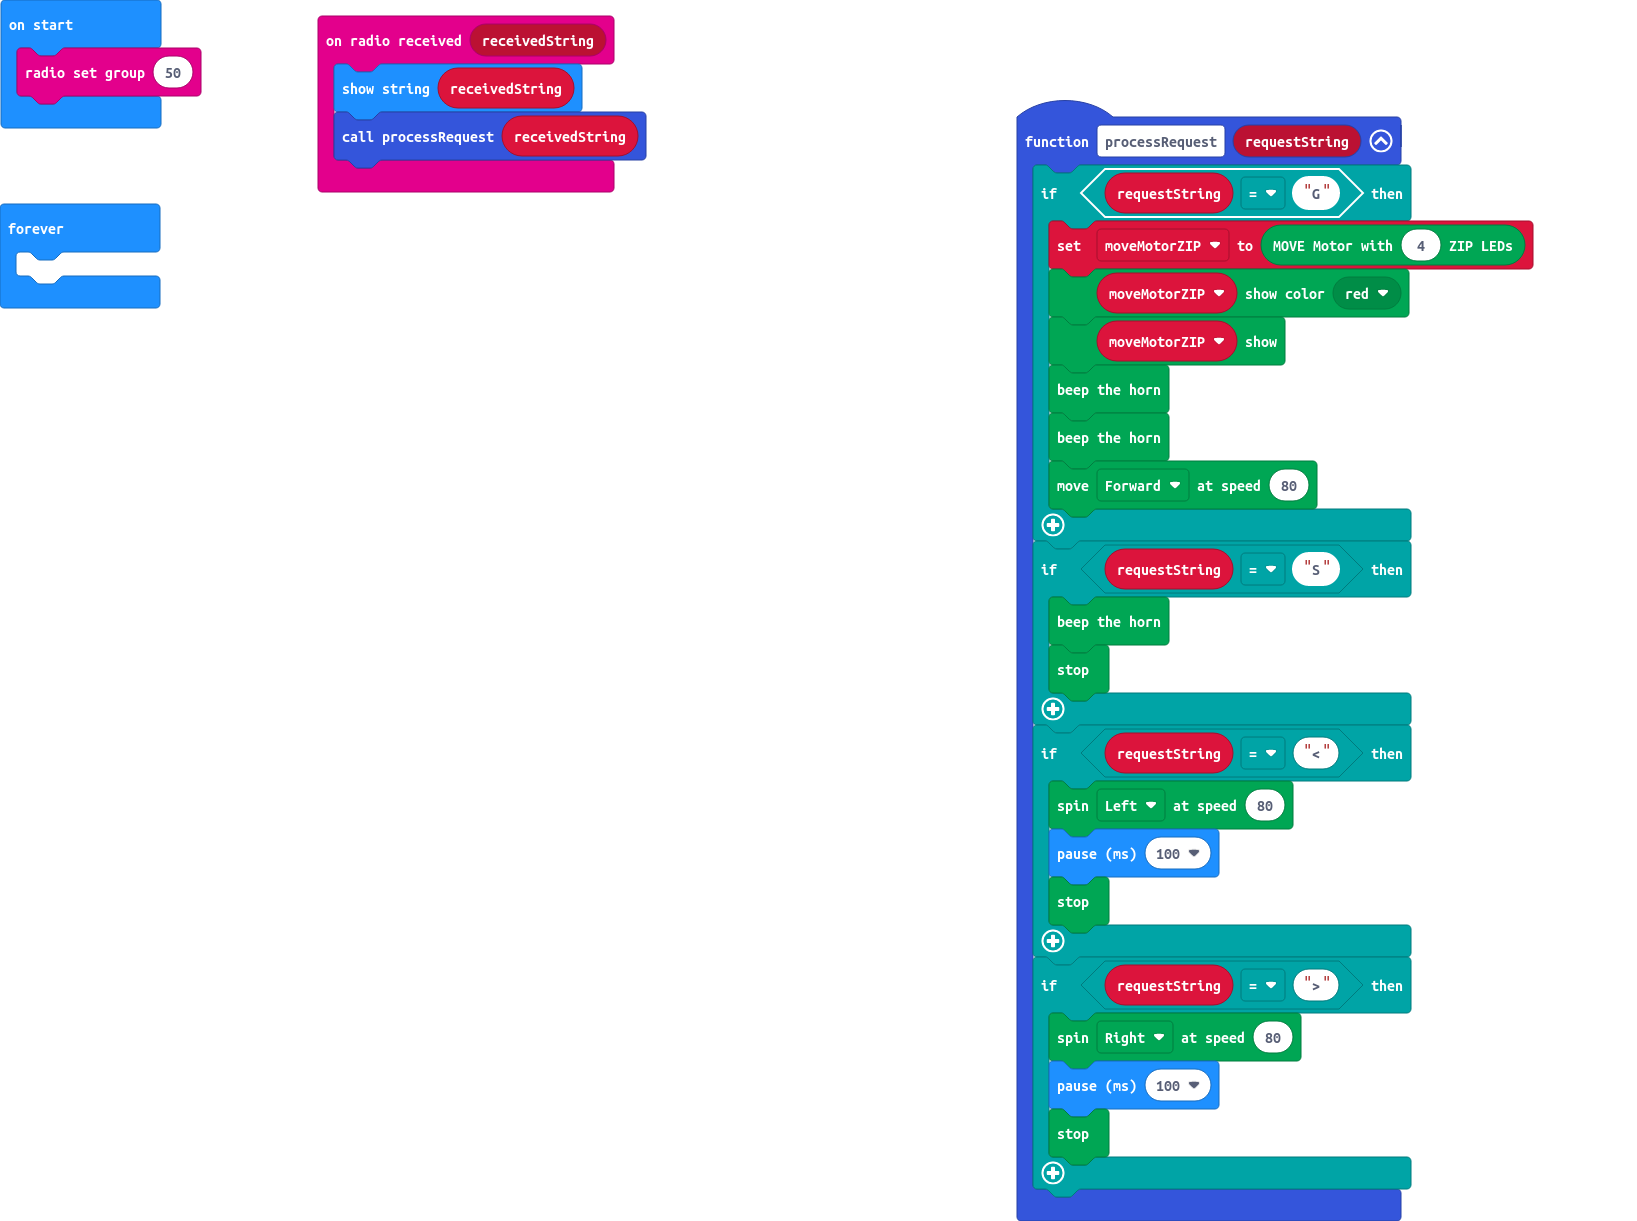
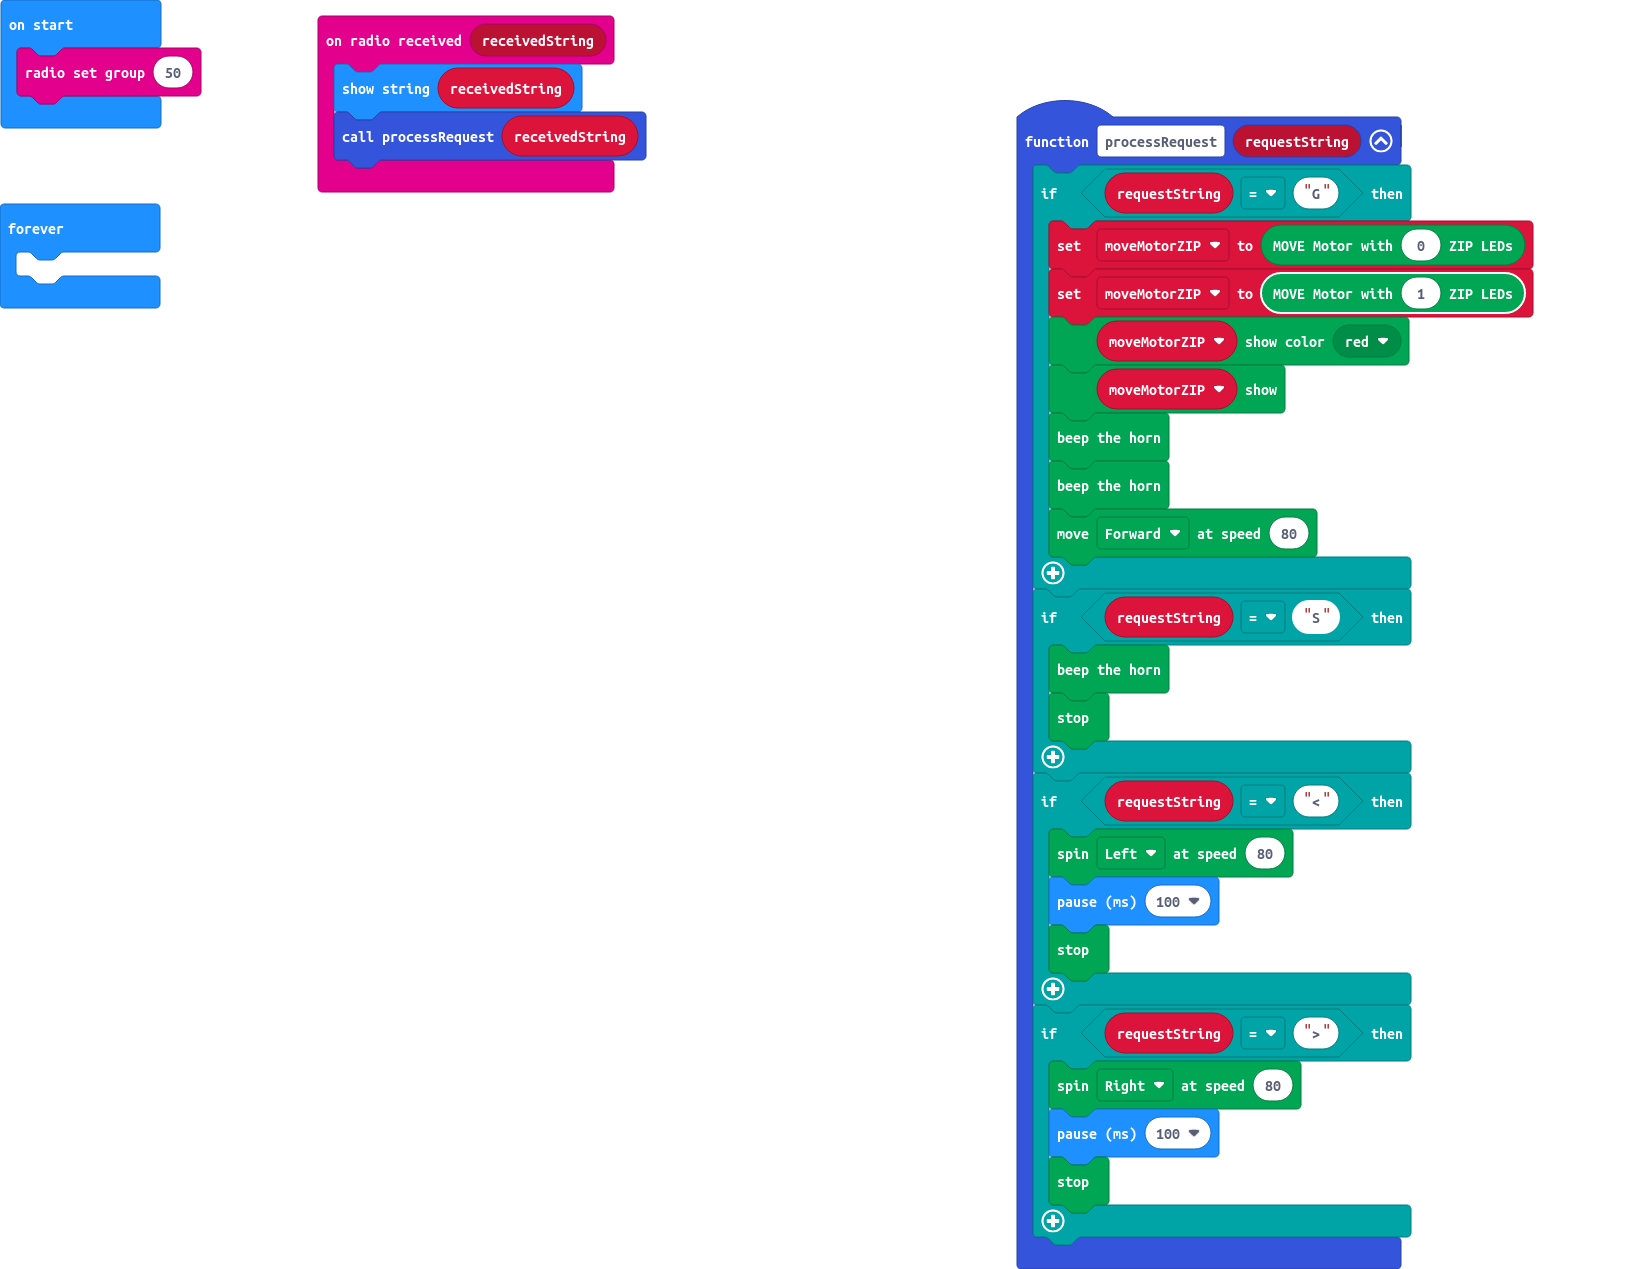
Updated lights

diff --git a/main.ts b/main.ts
@@ -1,6 +1,7 @@
 function processRequest (requestString: string) {
     if (requestString == "G") {
-        moveMotorZIP = Kitronik_Move_Motor.createMoveMotorZIPLED(4)
+        moveMotorZIP = Kitronik_Move_Motor.createMoveMotorZIPLED(0)
+        moveMotorZIP = Kitronik_Move_Motor.createMoveMotorZIPLED(1)
         moveMotorZIP.showColor(Kitronik_Move_Motor.colors(Kitronik_Move_Motor.ZipLedColors.Red))
         moveMotorZIP.show()
         Kitronik_Move_Motor.beepHorn()
